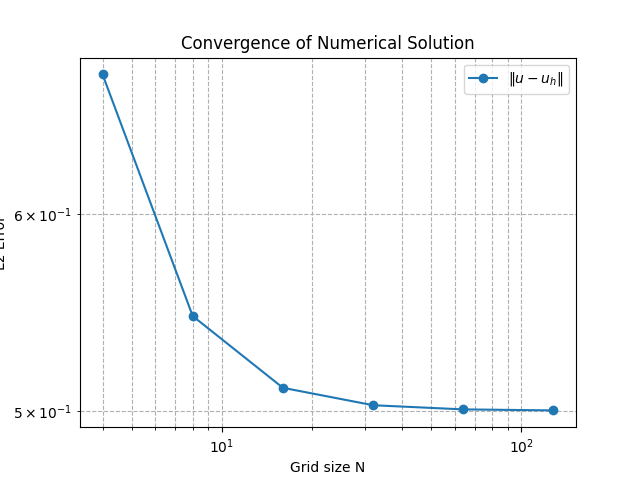
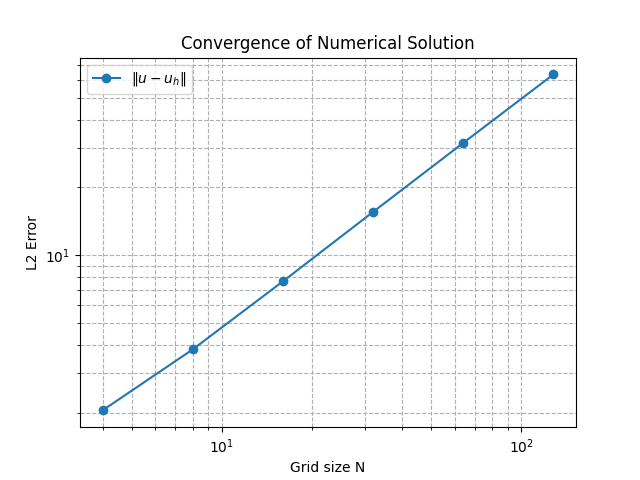
Update

diff --git a/1°_part_Iterative_Solver/ERROR_ANALISYS/err_h_component.py b/1°_part_Iterative_Solver/ERROR_ANALISYS/err_h_component.py
@@ -21,7 +21,7 @@ def build_matrix_A(N_inner):
 
 def compute_rhs(N_inner, a, p, q):
     dx = a / (N_inner + 1)
-    factor = (np.pi ** 2 / (a * a)) * (p * p + q * q)
+    factor = -1 * (np.pi ** 2 / (a * a)) * (p * p + q * q) # - laplac(u) = f
 
     f = np.zeros((N_inner, N_inner))
     for j in range(N_inner):
@@ -51,7 +51,7 @@ for N in N_values:
 
 
     h = 1.0 / (N_inner + 1)
-    error = h * np.linalg.norm(u_exact_inner + u_h)
+    error =  np.linalg.norm(u_exact_inner - u_h)
 
 
     errors.append(error)
